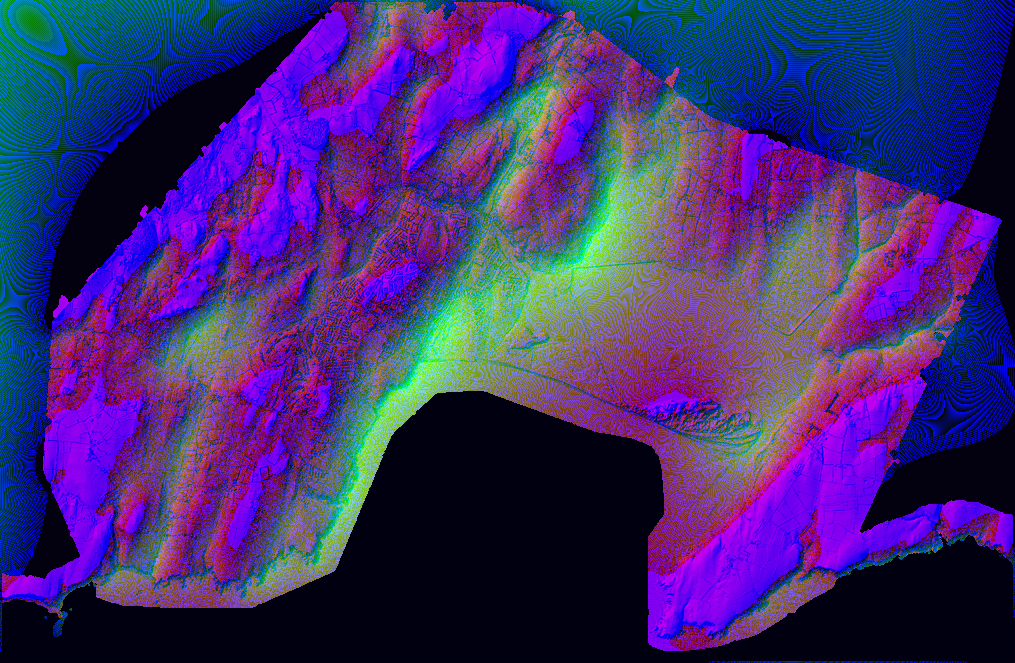
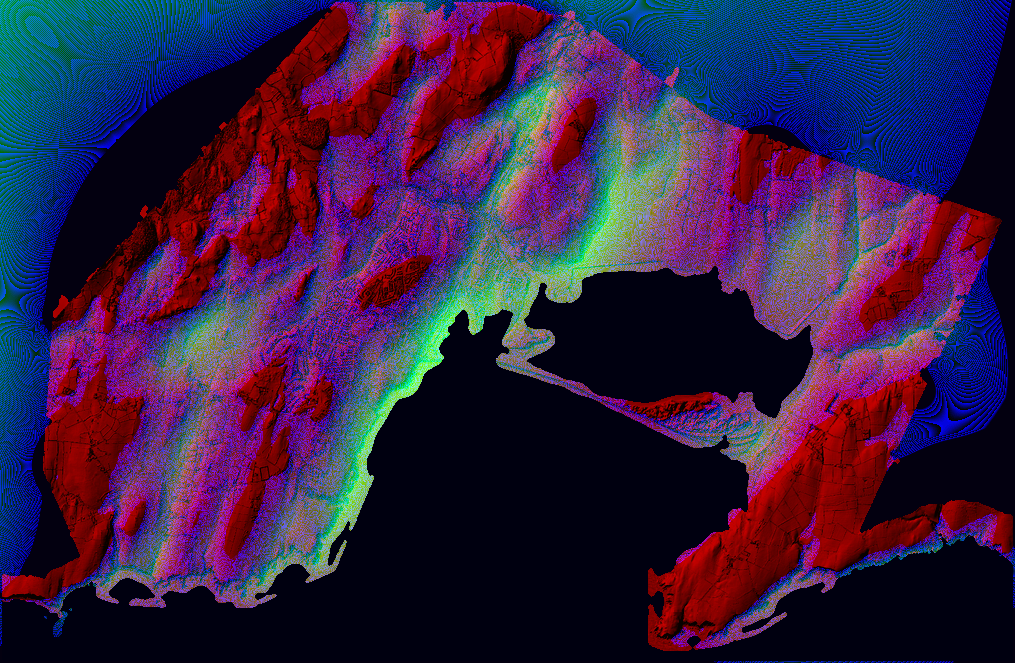
S-09: the coastline redrawn behind the survey's edge; the lagoon behind the dunes is water
The smooth band of sea and rippled sand that the survey covers off the shore, and the backstrand
lagoon, now count as water; slivers along the edge of the survey go with them.

Claude-Session: https://claude.ai/code/session_01AUtrK7ZNP4Cu7jf2w99u8u

diff --git a/tools/scan_s09.py b/tools/scan_s09.py
@@ -9,6 +9,8 @@ from PIL import Image
 from scipy import ndimage
 SRC = '/mnt/user-data/attachments/fedef7e3-dda8-5218-a993-10271ea187b5/29df8baa-image.png'
 NX = int(sys.argv[1]) if len(sys.argv) > 1 else 1015
+WTH = float(sys.argv[2]) if len(sys.argv) > 2 else 1.1
+BTH = float(sys.argv[3]) if len(sys.argv) > 3 else 2.0
 rgb = np.asarray(Image.open(SRC).convert('RGB')).astype(np.float32)
 H0, W0 = rgb.shape[:2]
 r, g, b = rgb[..., 0], rgb[..., 1], rgb[..., 2]
@@ -37,6 +39,31 @@ sea = ndimage.binary_closing(sea, iterations=3) & ~scan
 # keep the open water only: pieces of map-grey inland are left out
 lab, n = ndimage.label(sea); sz = ndimage.sum(np.ones_like(lab), lab, range(n + 1))
 sea = np.isin(lab, [l for l in range(1, n + 1) if sz[l] > 20000])
+# water inside the scan: the smooth band of sea and wet sand off the shore, and the lagoon behind
+# the dunes. Smooth at the scale of ~30 px (fields have hedges, roofs, banks), and either touching the
+# open water or a large single sheet.
+gy_, gx_ = np.gradient(ndimage.gaussian_filter(rgb.mean(-1), 4))
+gm = ndimage.uniform_filter(np.hypot(gx_, gy_), 31)
+dsea0 = ndimage.distance_transform_edt(~sea)
+cand = scan & ((gm < WTH) | ((gm < BTH) & (dsea0 < 160)))     # near the open water, rippled sand and surf count as water too
+cand = ndimage.binary_opening(cand, iterations=3)
+lab, n = ndimage.label(cand); sz = ndimage.sum(np.ones_like(lab), lab, range(n + 1))
+touch = ndimage.binary_dilation(sea, iterations=8)
+ids = set(np.unique(lab[touch & cand])) | {l for l in range(1, n + 1) if sz[l] > 40000}
+ids.discard(0)
+wet = np.isin(lab, list(ids))
+wet = ndimage.binary_closing(wet, iterations=4) & scan
+wet = ndimage.binary_fill_holes(wet) & scan
+# thin slivers left between water (the edge of the survey, lines of foam): water too
+land = scan & ~wet
+thin = land & ~ndimage.binary_opening(land, iterations=4) & (dsea0 < 200)
+wet |= thin
+land = scan & ~wet
+lab, n = ndimage.label(land); sz = ndimage.sum(np.ones_like(lab), lab, range(n + 1))
+wet |= np.isin(lab, [l for l in range(1, n + 1) if sz[l] < 3000])
+wet &= scan
+sea = sea | wet
+scan = scan & ~wet
 foot = scan | sea
 # smooth the outline of the added water so it reads as a soft band, not pixels
 foot = ndimage.gaussian_filter(foot.astype(np.float32), 3) > 0.5
